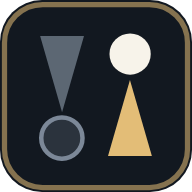
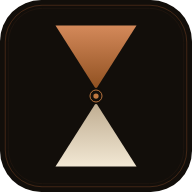
feat: Ebony & Copper rebrand (v1.0.9)
Visual identity overhaul — classic renewed, warm and mature:
- New icon: two opposing triangles (copper + ivory) on warm ebony, with center accent ring
- Color palette: warm ebony (#120e0a) replaces cold dark; copper (#c07840) replaces cold gold; ivory text (#f2e8d8)
- Background gradient: warm amber-brown instead of cold blue-grey
- Default board theme: warmed to ebony tones (pt-light, pt-dark, frame, bar, checker-b-ring)
- Regenerated icon-192.png and icon-512.png from new SVG
- Manifest theme/background colors updated
- All rgba gold references migrated to copper equivalent
- Bump to v1.0.9

Claude-Session: https://claude.ai/code/session_01VzEBYF8exDCXVg9a1QUjB9

diff --git a/style.css b/style.css
@@ -1,35 +1,36 @@
 /* ==========================================================================
-   שש-בש — ממשק מודרני, כהה ומינימלי. מותאם קודם כול לטלפון.
+   שש-בש — עיצוב Ebony & Copper: אבנוס חם, נחושת/ברונזה, שנהב.
+   מותאם קודם כול לטלפון.
    ========================================================================== */
 
 *, *::before, *::after { box-sizing: border-box; }
 [hidden] { display: none !important; }
 
 :root {
-  --bg-0: #070a0d;
-  --bg-1: #10151b;
-  --surface: rgba(255, 255, 255, .055);
-  --surface-2: rgba(255, 255, 255, .09);
-  --line: rgba(255, 255, 255, .10);
-  --text: #eef2f6;
-  --text-dim: #93a1b0;
-  --gold: #e3bd77;
-  --gold-hi: #f7dcae;
-  --gold-dim: #a8873f;
+  --bg-0: #120e0a;
+  --bg-1: #1e1610;
+  --surface: rgba(255, 232, 196, .055);
+  --surface-2: rgba(255, 232, 196, .10);
+  --line: rgba(255, 232, 196, .10);
+  --text: #f2e8d8;
+  --text-dim: #96806a;
+  --gold: #c07840;
+  --gold-hi: #da9a60;
+  --gold-dim: #8a5020;
 
   /* ערכת הלוח — נדרסת ב-body[data-board] */
-  --felt: #151b23;
-  --pt-light-a: #5c6773;
-  --pt-light-b: #414c58;
-  --pt-dark-a: #29313b;
-  --pt-dark-b: #1b222b;
-  --frame-a: #29313b; --frame-b: #161b22; --frame-c: #10151b;
-  --bar-a: #12171e;   --bar-b: #1c232c;
+  --felt: #140f0c;
+  --pt-light-a: #584a38;
+  --pt-light-b: #3c3024;
+  --pt-dark-a: #231c14;
+  --pt-dark-b: #17110b;
+  --frame-a: #231c14; --frame-b: #13100c; --frame-c: #100e0b;
+  --bar-a: #120e0a;   --bar-b: #1e1610;
   --chk-w-1: #ffffff; --chk-w-2: #f3efe6; --chk-w-3: #cfc7b6; --chk-w-ring: #8d7f61;
-  --chk-b-1: #454e59; --chk-b-2: #232a33; --chk-b-3: #0c1015; --chk-b-ring: #9fb0c4;
+  --chk-b-1: #40393a; --chk-b-2: #231d1b; --chk-b-3: #100c0a; --chk-b-ring: #8a7a6a;
   --die-a: #fbfcfd;   --die-b: #dbe1e8;   --die-pip: #1b222b;
-  --die-ai-a: #2f3742; --die-ai-b: #171d25; --die-ai-pip: #e7edf4;
-  --pnum: rgba(255, 255, 255, .3);
+  --die-ai-a: #352a22; --die-ai-b: #1e1510; --die-ai-pip: #f0e4d0;
+  --pnum: rgba(255, 232, 196, .3);
 
   --ar: 1.6;                     /* יחס רוחב/גובה של הלוח */
   --ease: cubic-bezier(.22, .61, .36, 1);
@@ -54,8 +55,8 @@ body {
   font-family: system-ui, -apple-system, "Segoe UI", Roboto, "Helvetica Neue", Arial, sans-serif;
   color: var(--text);
   background:
-    radial-gradient(120% 80% at 50% -10%, #1b2836 0%, transparent 55%),
-    radial-gradient(90% 60% at 50% 108%, #17222e 0%, transparent 60%),
+    radial-gradient(120% 80% at 50% -10%, #2a1a0c 0%, transparent 55%),
+    radial-gradient(90% 60% at 50% 108%, #1e1206 0%, transparent 60%),
     var(--bg-0);
   -webkit-tap-highlight-color: transparent;
   -webkit-text-size-adjust: 100%;
@@ -95,7 +96,7 @@ body {
 .logo-lg {
   width: clamp(88px, 25vmin, 124px);
   aspect-ratio: 1;
-  filter: drop-shadow(0 14px 30px rgba(227, 189, 119, .22));
+  filter: drop-shadow(0 14px 30px rgba(192, 120, 64, .28));
 }
 .home-title {
   margin: 4px 0 0;
@@ -204,9 +205,9 @@ body {
 .home-btn:active { transform: scale(.975); background: var(--surface-2); }
 .home-btn.primary {
   background: linear-gradient(180deg, var(--gold-hi), var(--gold-dim));
-  color: #241a08;
+  color: #1a0e06;
   border-color: transparent;
-  box-shadow: 0 12px 28px -10px rgba(227, 189, 119, .6);
+  box-shadow: 0 12px 28px -10px rgba(192, 120, 64, .65);
 }
 .home-btn:disabled { opacity: .4; box-shadow: none; cursor: default; }
 .home-btn:disabled:active { transform: none; }
@@ -376,7 +377,7 @@ body {
   transition: background .16s, border-color .16s, transform .1s;
 }
 .lvl-card:active { transform: scale(.98); }
-.lvl-card:hover { background: var(--surface-2); border-color: rgba(227,189,119,.4); }
+.lvl-card:hover { background: var(--surface-2); border-color: rgba(192,120,64,.4); }
 .lvl-name { grid-column: 1; font-size: .98rem; font-weight: 700; color: var(--text); }
 .lvl-desc { grid-column: 1; font-size: .75rem; color: var(--text-dim); line-height: 1.4; }
 .lvl-dots { grid-column: 2; grid-row: 1 / span 2; align-self: center; display: flex; gap: 4px; }
@@ -384,11 +385,11 @@ body {
 .lvl-dots i.on { background: var(--gold); }
 /* אלוף — כרטיס פרימיום עם מסגרת זהב */
 .lvl-card.champion {
-  border-color: rgba(227,189,119,.5);
+  border-color: rgba(192,120,64,.5);
   background: linear-gradient(150deg, color-mix(in srgb, var(--gold) 12%, var(--surface)), var(--surface) 70%);
 }
 .lvl-card.champion .lvl-name { color: var(--gold-hi); }
-.lvl-card.champion:hover { border-color: rgba(227,189,119,.75); }
+.lvl-card.champion:hover { border-color: rgba(192,120,64,.75); }
 
 .row-lbl small { display: block; font-size: .68rem; color: var(--text-dim); margin-top: 1px; }
 
@@ -466,9 +467,9 @@ body {
   transition: border-color .25s, background .25s, box-shadow .25s;
 }
 .strip.active {
-  border-color: rgba(227, 189, 119, .5);
-  background: rgba(227, 189, 119, .09);
-  box-shadow: 0 0 0 1px rgba(227, 189, 119, .12), 0 6px 22px -10px rgba(227, 189, 119, .5);
+  border-color: rgba(192, 120, 64, .5);
+  background: rgba(192, 120, 64, .09);
+  box-shadow: 0 0 0 1px rgba(192, 120, 64, .12), 0 6px 22px -10px rgba(192, 120, 64, .5);
 }
 
 /* טיימר התור — פס שמתקצר לאורך תחתית הרצועה של מי שתורו.
@@ -525,11 +526,11 @@ body {
   background: rgba(255, 255, 255, .10);
   transition: background .3s var(--ease), box-shadow .3s;
 }
-.borne i.on { background: linear-gradient(180deg, var(--gold-hi), var(--gold-dim)); box-shadow: 0 0 6px rgba(227, 189, 119, .55); }
-.borne.target { box-shadow: 0 0 0 2px var(--gold), 0 0 16px rgba(227, 189, 119, .55); cursor: pointer; animation: borne-pulse 1s ease-in-out infinite; }
+.borne i.on { background: linear-gradient(180deg, var(--gold-hi), var(--gold-dim)); box-shadow: 0 0 6px rgba(192, 120, 64, .55); }
+.borne.target { box-shadow: 0 0 0 2px var(--gold), 0 0 16px rgba(192, 120, 64, .55); cursor: pointer; animation: borne-pulse 1s ease-in-out infinite; }
 @keyframes borne-pulse {
-  0%, 100% { box-shadow: 0 0 0 2px var(--gold), 0 0 12px rgba(227, 189, 119, .45); }
-  50%      { box-shadow: 0 0 0 3px var(--gold-hi), 0 0 22px rgba(227, 189, 119, .8); }
+  0%, 100% { box-shadow: 0 0 0 2px var(--gold), 0 0 12px rgba(192, 120, 64, .45); }
+  50%      { box-shadow: 0 0 0 3px var(--gold-hi), 0 0 22px rgba(192, 120, 64, .8); }
 }
 
 .pipbox { flex: none; text-align: center; line-height: 1.05; }
@@ -627,7 +628,7 @@ body {
   left: 50%; top: 8%; bottom: 8%;
   width: 1px;
   transform: translateX(-50%);
-  background: linear-gradient(180deg, transparent, rgba(227,189,119,.28) 20%, rgba(227,189,119,.28) 80%, transparent);
+  background: linear-gradient(180deg, transparent, rgba(192,120,64,.28) 20%, rgba(192,120,64,.28) 80%, transparent);
 }
 
 /* ---------- חיילים ---------- */
@@ -706,7 +707,7 @@ body {
   opacity: 1;
   inset: -4px;
   border-width: 2.5px;
-  box-shadow: 0 0 14px rgba(227, 189, 119, .85);
+  box-shadow: 0 0 14px rgba(192, 120, 64, .85);
 }
 .checker.dragging {
   z-index: 60;
@@ -746,8 +747,8 @@ body {
   border-radius: 50%;
   z-index: 8;
   cursor: pointer;
-  border: 2px dashed rgba(227, 189, 119, .9);
-  background: rgba(227, 189, 119, .14);
+  border: 2px dashed rgba(192, 120, 64, .9);
+  background: rgba(192, 120, 64, .14);
   animation: halo 1.9s ease-in-out infinite;
 }
 .dest.hit {
@@ -957,15 +958,15 @@ body {
   cursor: pointer;
   padding: 0;
   background: linear-gradient(160deg, var(--gold-hi), var(--gold-dim));
-  box-shadow: 0 8px 22px -6px rgba(227, 189, 119, .6), inset 0 1px 0 rgba(255, 255, 255, .55);
+  box-shadow: 0 8px 22px -6px rgba(192, 120, 64, .6), inset 0 1px 0 rgba(255, 255, 255, .55);
   display: grid;
   place-items: center;
   transition: transform .12s var(--ease), opacity .2s;
   animation: breathe 2.4s ease-in-out infinite;
 }
 @keyframes breathe {
-  0%, 100% { box-shadow: 0 8px 22px -6px rgba(227, 189, 119, .45), inset 0 1px 0 rgba(255,255,255,.55); }
-  50%      { box-shadow: 0 8px 30px -4px rgba(227, 189, 119, .85), inset 0 1px 0 rgba(255,255,255,.55); }
+  0%, 100% { box-shadow: 0 8px 22px -6px rgba(192, 120, 64, .45), inset 0 1px 0 rgba(255,255,255,.55); }
+  50%      { box-shadow: 0 8px 30px -4px rgba(192, 120, 64, .85), inset 0 1px 0 rgba(255,255,255,.55); }
 }
 .roll-btn:active { transform: scale(.93); }
 .roll-btn .roll-face {
@@ -1448,7 +1449,7 @@ body[data-board="lagoon"] {
   transition: border-color .16s, transform .1s, background .16s;
 }
 .av-opt:active { transform: scale(.92); }
-.av-opt.on { border-color: var(--gold); background: rgba(227, 189, 119, .14); }
+.av-opt.on { border-color: var(--gold); background: rgba(192, 120, 64, .14); }
 
 .name-input {
   font: inherit;
@@ -1673,7 +1674,7 @@ body[data-board="lagoon"] {
   box-shadow: 0 3px 9px -3px rgba(0, 0, 0, .55);
 }
 .dbl-die:active { transform: scale(.9); }
-.dbl-die:hover { box-shadow: 0 0 0 2px var(--gold), 0 3px 12px -3px rgba(227, 189, 119, .6); }
+.dbl-die:hover { box-shadow: 0 0 0 2px var(--gold), 0 3px 12px -3px rgba(192, 120, 64, .6); }
 .dbl-die span { width: 100%; height: 100%; }
 .dbl-die span.dot { border-radius: 50%; background: #1b222b; }
 
@@ -1836,7 +1837,7 @@ body { background: var(--bg-0); }
   box-shadow:
     -4px -4px 10px rgba(255, 255, 255, .06),
     5px 5px 14px rgba(0, 0, 0, .55),
-    0 10px 26px -12px rgba(227, 189, 119, .5);
+    0 10px 26px -12px rgba(192, 120, 64, .5);
 }
 .home-btn.primary:active, .pill-btn.gold:active, .roll-btn:active {
   box-shadow:
@@ -1852,20 +1853,20 @@ body { background: var(--bg-0); }
   padding: 4px 10px;
   border: 2px solid var(--gold);
   border-radius: 8px;
-  background: rgba(227,189,119,.12);
+  background: rgba(192,120,64,.12);
   color: var(--gold);
   font-weight: 800; font-size: 15px;
   cursor: pointer;
   transition: background .18s, transform .12s;
 }
-.cube-btn:active { transform: scale(.93); background: rgba(227,189,119,.22); }
+.cube-btn:active { transform: scale(.93); background: rgba(192,120,64,.22); }
 
 .cube-display {
   display: inline-flex; align-items: center; justify-content: center;
   width: 28px; height: 28px;
   border: 1.5px solid var(--gold);
   border-radius: 5px;
-  background: rgba(227,189,119,.10);
+  background: rgba(192,120,64,.10);
   color: var(--gold);
   font-weight: 800; font-size: 13px;
   margin-inline-start: 6px;
@@ -1939,7 +1940,7 @@ body { background: var(--bg-0); }
 }
 @keyframes update-pulse {
   0%, 100% { box-shadow: 0 4px 16px rgba(0,0,0,.45); }
-  50%       { box-shadow: 0 4px 24px rgba(227,189,119,.55); }
+  50%       { box-shadow: 0 4px 24px rgba(192,120,64,.55); }
 }
 @keyframes update-bounce {
   0%, 60%, 100% { transform: translateY(0); }

diff --git a/index.html b/index.html
@@ -405,7 +405,7 @@
     </div>
     <button class="pill-btn wide" id="sheet-draw" hidden>הצע תיקו</button>
     <button class="pill-btn wide danger" id="sheet-resign">פרוש מהמשחק</button>
-    <p class="app-version" id="app-version-lbl">גרסה 1.0.8</p>
+    <p class="app-version" id="app-version-lbl">גרסה 1.0.9</p>
   </div>
 </div>
 

diff --git a/sw.js b/sw.js
@@ -1,6 +1,6 @@
 /* Service worker — מאפשר לפתוח את המשחק גם בלי אינטרנט.
    בכל עדכון: מעלים את VERSION ב-1 — זה מה שגורם לדפדפן לזהות גרסה חדשה. */
-const VERSION = "1.0.8";
+const VERSION = "1.0.9";
 const CACHE = "shesh-besh-" + VERSION;
 
 const SHELL = [

diff --git a/js/app.js b/js/app.js
@@ -1,6 +1,6 @@
 "use strict";
 
-const APP_VERSION = "1.0.8";
+const APP_VERSION = "1.0.9";
 
 /* ==========================================================================
    app.js — ממשק המשתמש ובקרת המשחק.
